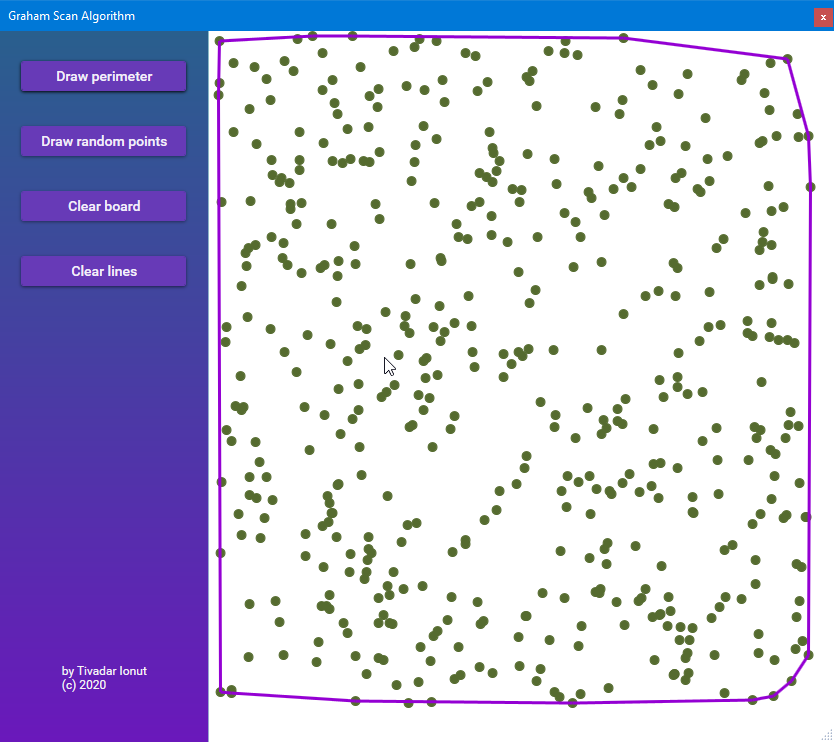
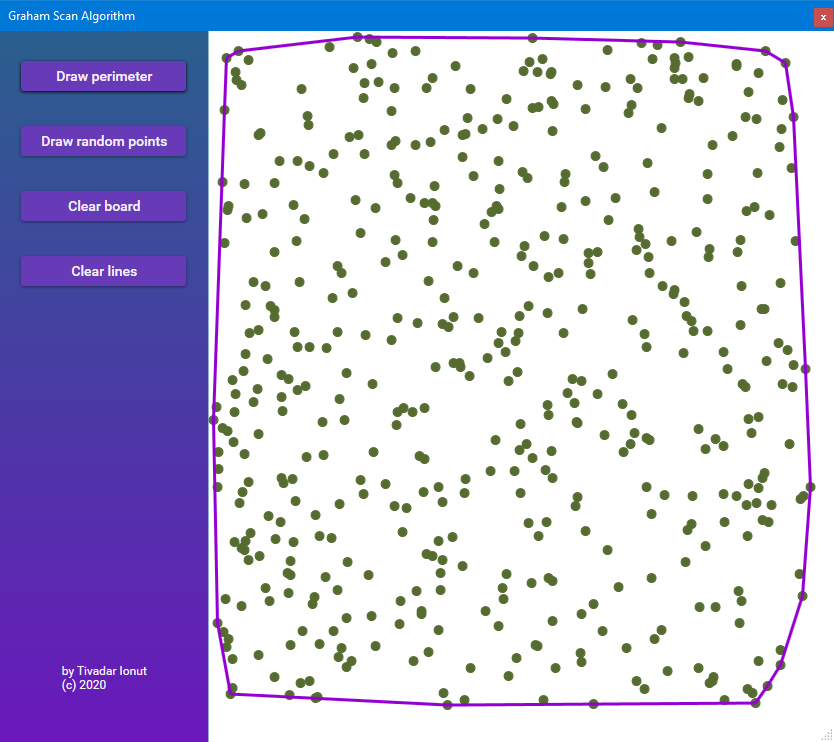
Update images and README.md file.

diff --git a/README.md b/README.md
@@ -3,7 +3,7 @@ Being being passionate about algorithms and data structures, I always look for o
 
  The app is an visualization in a user-friendly interface  of the Graham scan algorithm. It is implemented in WPF technology with the MVVM architecure in mind.
 
-![Solved convex hull](Images/solvedhull.png)
+![Solved convex hull](Images/solvedHull.png)
 ##### [More screenshots below](#Screenshots)
 # The convex hull problem
 In geometry, the convex hull (or convex closure) of a shape is the smallest convex region that contains that shape. In other words, the convex hull of a set of points is the smallest shape that includes all the points. The points might be situated in the interior of the shape or exactly on boundary. In this case, the shape is defined by the edges between the points on the convex hull. 
@@ -44,10 +44,10 @@ What does this button do?
 
 # <a name="Screenshots"></a>Screenshots
 Points before solving the convex hull:
-![Points on canvas](Images/drawnpoints.png)
+![Points on canvas](Images/drawnPoints.png)
 
 The solved convex hull of points from previous image:
-![Solved hull](Images/solvedhull.png)
+![Solved hull](Images/solvedHull.png)
 
 The solved convex hull random points:
 ![Random points solved](Images/solvedforrandompoints.png)
